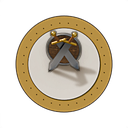
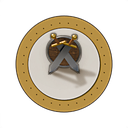
Graphismes 3D des Expéditions : famille des haltes rendue (médaillons, gardiens, écussons de porte, sceaux, icônes de la compagnie)
Claude-Session: https://claude.ai/code/session_013imxrBtnjcaCcqsphPahqh

Changed region(s): [[0.3438, 0.2188, 0.75, 0.6562]]

diff --git a/atelier/outils/rendu-3d/expedition_haltes.py b/atelier/outils/rendu-3d/expedition_haltes.py
@@ -443,7 +443,7 @@ def halte_escarmouche():
     objets = epee("epee1", m, (-0.5, 0.1, -0.08), penche=27, lacet=3, longueur=1.45, largeur=0.12)
     objets += epee("epee2", m, (0.5, 0.15, -0.08), penche=-27, lacet=-3, longueur=1.45, largeur=0.12)
     objets += bouclier_rond("ecu", 0.55, (0.0, 0.55, 0), penche=20, lacet=-6, m=m, mat=E.mat_planches("ecu_planches", "#6e4f30"))
-    objets = racine(objets, 1.5, -0.55)
+    objets = racine(objets, 1.5, -0.72)
     return E.rendre_rondel("halte-escarmouche", objets, echantillons=ECHANTILLONS, contour=0.5)
 
 

diff --git a/docs/JOURNAL.md b/docs/JOURNAL.md
@@ -292,3 +292,4 @@ Lecture. Ruée : à la 1re vague, 19 % de la solidité de la première place for
 - 2026-10-24 : expéditions, livraison de l'étape 1 (MVP). Les dix décisions de la section 2 du cahier de conception (atelier/conception/expeditions.md), prises faute d'arbitrage dans le cahier des charges et appliquées telles quelles ; Romain peut les changer : 1. Une expédition = 3 semaines (2 ou 1 si la frontière est plus proche), 3 couches par semaine, pour tenir environ 30 à 40 minutes en deux séances ; réglages semaines et couches de config.js. 2. Les relais sont S1, la semaine qui suit chaque semaine franchie (pour toujours) et le tronçon de l'année en cours (frontière − 2) ; le défaut proposé est le relais ouvert le plus élevé ; relaisLibres (faux par défaut) ouvre toutes les semaines. 3. La défaite vient des vivres (3 au départ), perdus un par bataille où les murs cèdent, jamais par une question ni un événement ; un gardien raté se retente tant qu'il reste des vivres, et les coups portés restent. 4. Les faveurs se méritent par une question du conseiller qui les offre : juste, trois au choix ; fausse, deux ; jamais de porte vide, jamais de faveur imposée. 5. Rien de permanent ne vient des faveurs : la renommée et l'Armorial sont la seule progression entre deux expéditions ; les ressources du domaine gagnées par bonne réponse restent acquises partout, même dans une expédition perdue. 6. Embuscades, gardiens et Grand Gardien se jouent en défense (troupes d'assaut, coups aux murs doublés), les escarmouches en attaque : en attaque les murs ne cèdent presque jamais, l'escarmouche garde l'enjeu de la victoire éclatante, qui double la porte. 7. La route ne consomme rien de la campagne : les bonus de l'événement du jour (mercenaires, espion) restent pour la prochaine bataille de campagne ; la route a son propre plan de bataille et son propre espion. 8. Fermer le jeu pendant une bataille de route après sa première vague compte comme une retraite (un vivre perdu à la reprise) ; avant la première vague, rien. 9. L'or de route restant devient de la renommée (1 pour 5) au bilan : rien n'est jeté. 10. Les compagnons de route (grammaire, anglais, fiches méthode, qui n'ont pas de semaine) ne sont pas dans le quota de semaine : ils viennent par la troisième question, à leur part dans l'équilibre des familles. Jour 0 (24/10/2026, mesures avant d'écrire la route, atelier/conception/expeditions-mesures.md, bloc V7 confirmé par la vérification) : escarmouche = attaque, 2 vagues (et non 1 : à une vague, le camp de 6 ne tombait jamais au niveau 0 ni au niveau 4), camp de 6, ligne de la semaine + 0, champion gardé, 6 questions ; embuscade = défense, 2 vagues, camp de 10, ligne de la semaine + 1 (plafond 4) ; gardien = défense, 2 vagues, camp de 12, ligne de la semaine + 0 ; Grand Gardien = défense, 3 vagues, camp de 16, ligne de la semaine + 0 (plafond 4 ; le + 1 du cahier donnait 20 % de tenue en S8 sur le Gué) ; ligne du rival par semaine : S1-S2 : 0, S3-S5 : 1, S6-S8 : 2, S9-S12 : 3, S13 et au-delà : 4 ; config.expedition.difficulte = 0 (+1 à éviter de S6 à S12 : Grand Gardien de S8 à 20 %) ; config.expedition.vivres = 3, maximum 5 ; en défense, la solidité du camp ne change pas la tenue des murs, seulement la part de victoires éclatantes ; cible d'expédition S6 → S8 à 7 sur 10 et 3 vivres révisée à 65 à 85 % (déduite des cibles par nœud ; le cahier disait 55 à 70 %), celle à 6 sur 10 gardée à 35 % au moins ; référence des batailles de campagne : atelier/mesures/avant-expedition.json, 0 écart exigé (vérifié : +0 % sur les vingt cases, régénération identique octet par octet). Réglage du MVP (24/10/2026, les deux simulateurs avec --expedition et les options exactes du jeu, 160 batailles par case) : aucune constante de EXP modifiée ; réussite d'une expédition de trois semaines à 6, 7 et 9 bonnes réponses sur 10 avec 3 vivres : S1 → S3 48, 84 et 100 % (premier gardien franchi 93, 99 et 100 % ; 65, 93 et 100 % avec 4 vivres), S6 → S8 99, 99,6 et 100 % ; S1 → S3 tient toutes ses cibles ; S6 → S8 est trop facile (embuscade 87 à 93 %, gardien 100 %, Grand Gardien 87 %) et aucun levier du MVP ne l'y ramène sans casser autre chose (difficulte +1 : 42 % et Grand Gardien de S8 à 20 % ; vivres 2 : S1 → S3 tombe à 65 % ; 4 vagues au Grand Gardien : 78 % au nœud, expédition inchangée à 99 % ; solidités sans effet sur la tenue ; gardien à la ligne + 1 : S1-S2 sous leur cible) : levier gardé pour l'étape 2, la table fine par semaine (gardien de S6 à S8 à la ligne 3, Grand Gardien durci par la garnison ou une tour de départ plutôt que par la ligne) ; part des questions de la fenêtre de l'acte dans les lots de semaine 72 à 74 % (78 à 87 % hors Seconde chance ; cible 60 % au moins) ; aucune question reposée à moins de 60, aucune notion deux fois en 10 ; réussite inchangée (70 à 71 % pour l'élève moyen, 82 à 83 % pour le fort, 61 à 62 % en difficulté) ; notions à revoir à 1,4 à 1,5 fois leur part dans les lots de semaine depuis S1 (limite basse de la cible) ; deux cibles manquées à signaler à Romain : l'anglais à 7 à 12 % des questions de route (il n'a pas de semaine : décision 10 ; piste hors MVP : une troisième question sur deux réservée aux compagnons de route) et la durée du tirage avec quota (7,5 ms en médiane sur cette machine pour 3 visés ; le tirage se fait au début d'une vague, jamais entre deux questions : sans effet visible ; piste : une seule passe de candidats dans recit.js). Les choix faits en codant sont dans les deux entrées précédentes (logique, écran).
 - 2026-10-25 : questions de thème (demande de Romain : « il y a des questions un peu bizarres, qui n'ont pas trop de sens ; si tu ne trouves pas de quoi faire la question par rapport au cours, fais des questions qui ont un rapport avec le thème »). Jusqu'ici, toute question devait sortir du fichier déposé, ce qui poussait, sur un cours mince, à des questions sur le document lui-même, sur une consigne ou sur un détail de frise. Désormais, quand le cours déposé ne suffit pas, une question peut porter sur le thème du cours (intitulé du planning) et la notion de la fiche, au niveau du programme de 5e, sans contredire le cours, avec un fait vérifié dans une source fiable notée dans la question : source { theme, titre, editeur, url }, sans fichier ni page (règle dans CLAUDE.md, format et contrôle 11 dans docs/FORMAT_DONNEES.md). Elle se joue partout, contrairement au bonus ; au plus la moitié des questions d'un cours (ALERTE du validateur au-delà), sauf cours trop mince dit tel par l'audit ; listée pour Romain dans la fiche de relecture ; anti-spoil, anti-recopie, ton neutre et absence de question de religion inchangés. Outils : grille d'audit atelier/relecture/grille-audit-questions.md, node atelier/outils/lister-questions.js <matière> pour relire toutes les questions d'une matière.
 - 2026-10-25 : graphismes des expéditions (atelier/conception/expeditions-graphismes.md, section 6) : 1. le cadre des médaillons est rendu de dessus et l'objet de trois quarts, puis les deux sont composés, pour que le cercle rendu soit exactement celui du SVG (un rondel vu de trois quarts serait une ellipse qui ne couvrirait pas le repli) et que tous les médaillons aient le même cadre au pixel près ; 2. une image par rang de faveur (bronze, argent) plutôt qu'un cerclage CSS autour d'une image (deux cercles) ; 3. l'écu de l'Armorial en six couches (écu + cinq émaux) pour garder l'opacité par rang du SVG ; 4. le cadre des fenêtres par border-image et une classe posée par JS (une image pour toutes les hauteurs) ; 5. restent en SVG ou CSS : textes, chemins, halo, borne de touche, bannière « Cette semaine », lettrine HTML, fond des cartes de faveurs, nappes de brume et bourg de départ. Raison commune : le SVG reste le repli, rien ne doit se dédoubler quand l'image est là, rien ne doit manquer quand elle n'y est pas.
+- 2026-10-28 : graphismes des expéditions, famille « haltes » (atelier/outils/rendu-3d/expedition_haltes.py, reprise des rendus interrompus du 25/10) : 10 médaillons (halte-escarmouche, -embuscade, -bivouac, -marchand, halte-ev-marchands, -defi, -mercenaires, -incendie, -espion, -archives, 128 px, ancre 32,32), 9 écussons de porte (56 px, ancre 14,13), 2 sceaux (80 px, ancre 20,20) et les 5 icônes de la compagnie (compagnie-sac-plein/-vide 48 × 56 ancre 12,26 ; compagnie-or, -plan, -espion 48 px ancre 12,12 ; rendues ici parce que le manifeste ne les avait pas), toutes dans jeu/assets/images/expedition/ et le manifeste images.js ; 26 fichiers, 256 Ko, aucun au-dessus de 20 Ko ; planches atelier/captures/planche-expedition-haltes.png et -56.png (taille d'écran). Retouches après relecture des planches à 56 px : flammes d'enluminure opaques et rouge-orangé (les flammes de commun.py, faites pour l'herbe, viraient au rose sur le parchemin) pour le bivouac et l'incendie ; toile de tente tannée (la toile claire s'effaçait sur le champ) ; escarmouche recomposée en grand X d'épées à gardes d'or devant un écu rond sombre ; défi avec un écusson de bois (pas rond) sous le heaume, pour ne pas ressembler à l'escarmouche et aux mercenaires ; emblème sombre sur le sceau de plomb (le clair ne se lisait pas) ; sac vide en toile claire non blanche. Contrôles : bords transparents, blancs < 0,2 %, pas de halo blanc ; tests 347 réussis, validateur 0 erreur, 5 alertes connues. Rien n'est encore branché dans l'écran (agent d'intégration).
